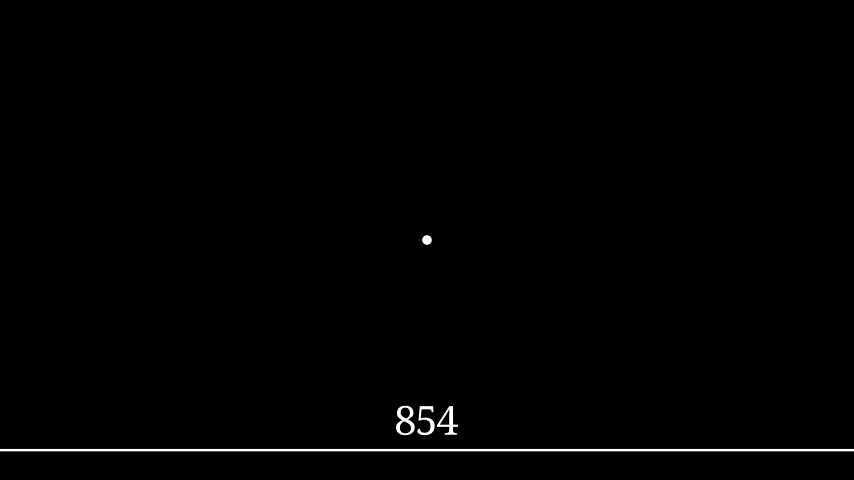
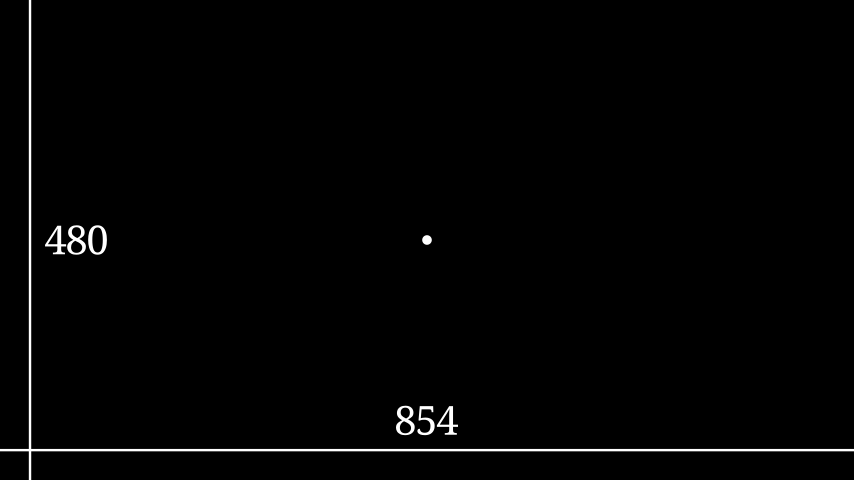
Updated stuff

Changed region(s): [[0.0304, 0.0, 0.1218, 1.0]]

diff --git a/project/scene.py b/project/scene.py
@@ -108,4 +108,6 @@ class ShowScreenResolution(Scene):
         d1 = Line(frame_width * LEFT / 2, frame_width * RIGHT/ 2).to_edge(DOWN)
         self.add(d1)
         self.add(Text(str(pixel_width)).next_to(d1, UP))
-        
+        d2 = Line(frame_height * UP / 2, frame_height * DOWN / 2).to_edge(LEFT)
+        self.add(d2)
+        self.add(Text(str(pixel_height)).next_to(d2, RIGHT))
